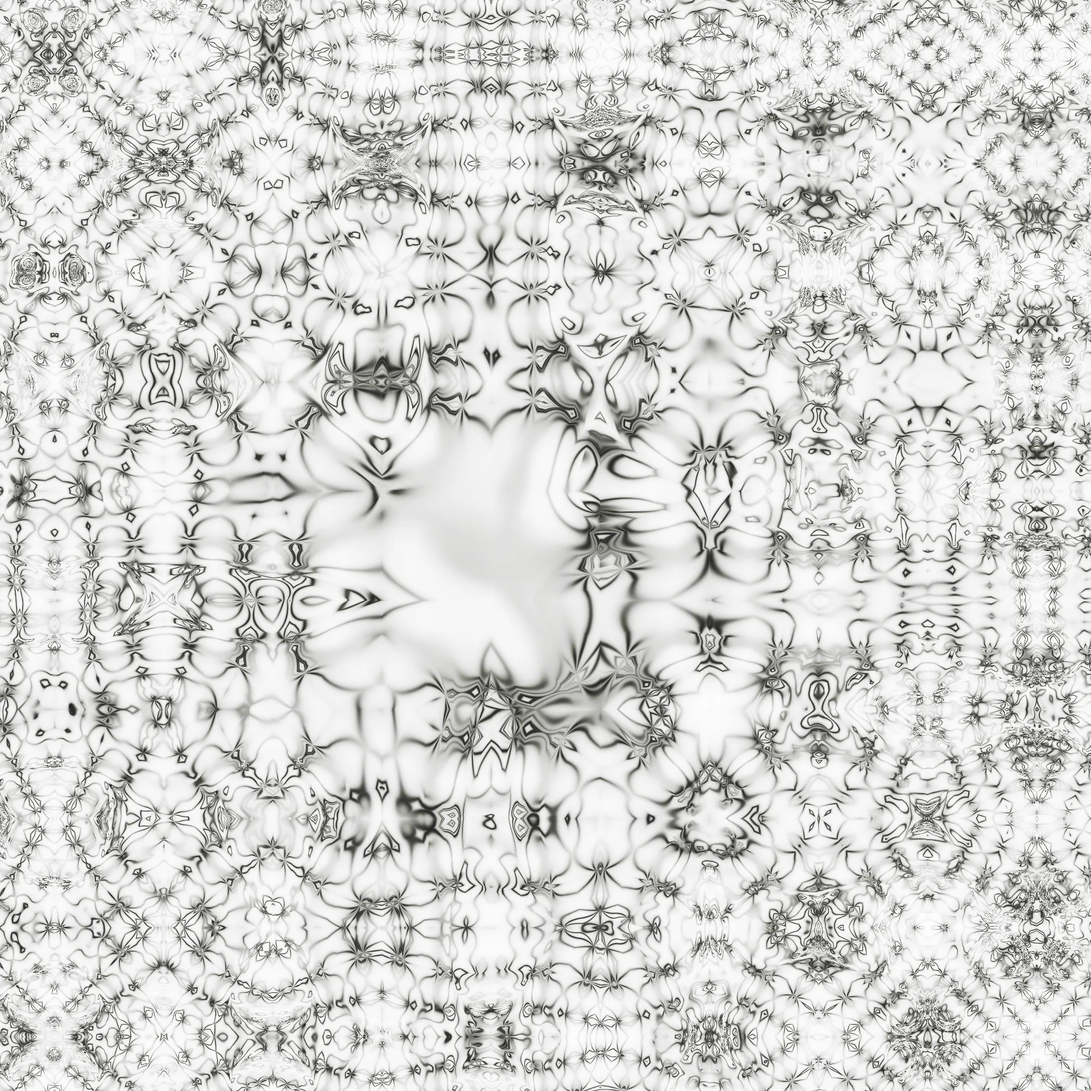
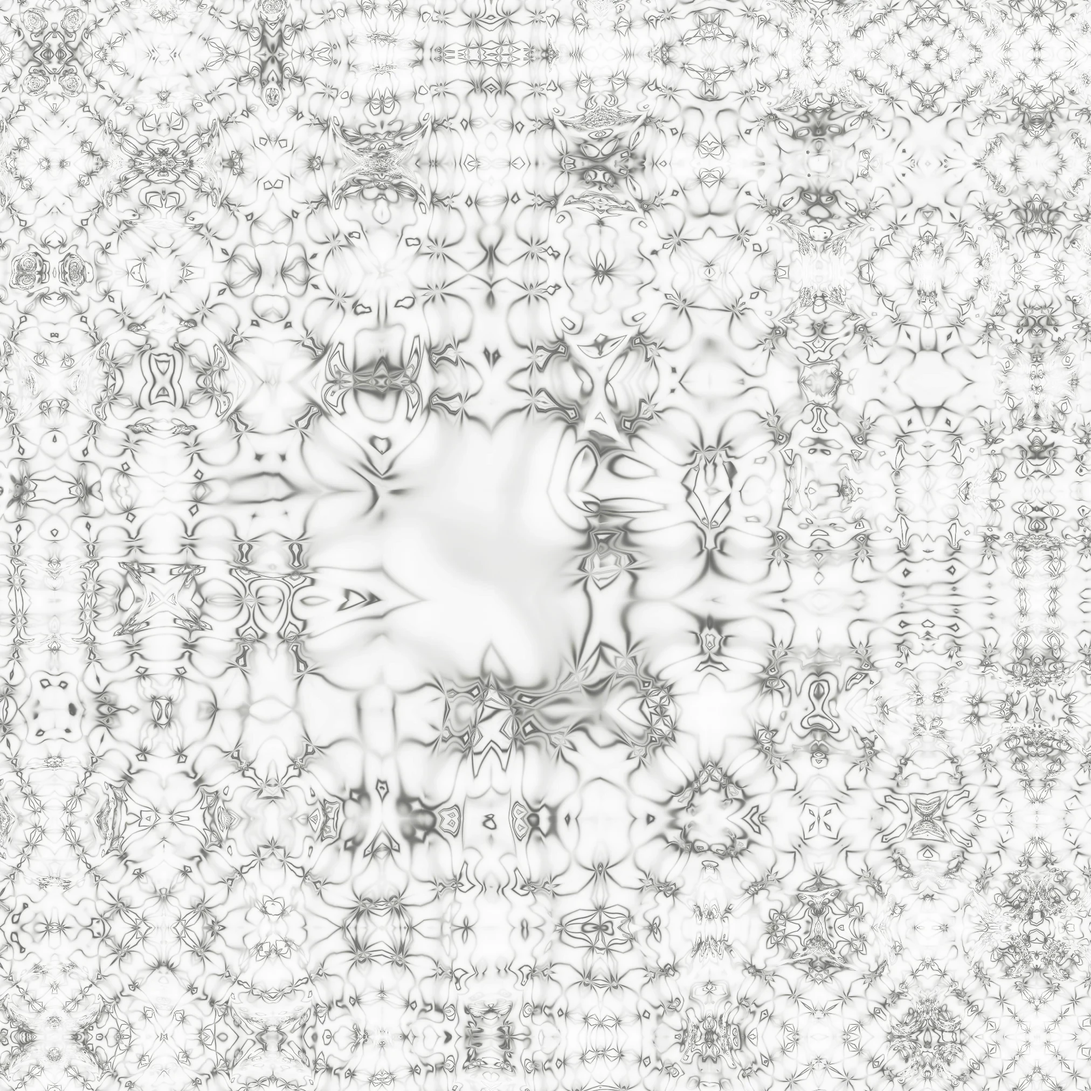
Reorganise navigation and categories.
- Nav: replaced Posts/About with About/Archive/All posts
- Archive page: compact inline layout (categories + years)
- Homepage: clean paginated post list, no browse strip
- Archive layouts: removed redundant browse-menu includes
- Categories: merged Gems and stones → Constructive math,
  Andromeda + RZ → Software, Every proof assistant → Formalized
  mathematics; renamed Formalization → Formalized mathematics;
  fixed typo Synthetic computatibility → Synthetic computability
- Header image: lifted black point to reduce darkness
- CSS: lighter multiply tint, title nowrap

diff --git a/asset/stylesheet.css b/asset/stylesheet.css
@@ -66,16 +66,14 @@ a.active {
 /*
    The random-art image is square (2024×2024).  background-size: cover
    combined with background-position: top center shows the dense
-   patterned top portion as a wide banner.  The golden tint is applied
-   via background-blend-mode: multiply so no separate tinted file is
-   needed — adjusting --image-tint changes the colour.
+   patterned top portion as a wide banner.
 */
 
 header {
   width: 100%;
   min-height: clamp(100px, 14vw, 180px);
   background-image: url('/asset/imast-mej.webp');
-  background-color: var(--image-tint);
+  background-color: #e8dfc4;
   background-blend-mode: multiply;
   background-size: cover;
   background-position: center 8%;
@@ -118,6 +116,7 @@ header h1 {
   letter-spacing: -0.01em;
   text-shadow: 0 1px 6px rgba(255, 248, 220, 0.8);
   line-height: 1.1;
+  white-space: nowrap;
 }
 
 header h2 {
@@ -361,6 +360,86 @@ div.excerpt-header {
 div.browse-posts {
   text-align: right;
   margin-top: 1.5rem;
+  font-size: 0.9rem;
+}
+
+/* ── Archive page ──────────────────────────────────────────── */
+
+h2.archive-heading {
+  font-size: 0.8rem;
+  text-transform: uppercase;
+  letter-spacing: 0.12em;
+  color: var(--muted);
+  font-family: system-ui, sans-serif;
+  font-weight: 600;
+  margin: 1.5rem 0 0.5rem;
+  border-bottom: 1px dashed var(--border);
+  padding-bottom: 0.4rem;
+}
+
+p.archive-inline {
+  margin: 0;
+  line-height: 2;
+}
+
+.archive-count {
+  color: var(--muted);
+  font-size: 0.85rem;
+}
+
+/* ── Topic grid (homepage) ─────────────────────────────────── */
+
+.topic-grid {
+  display: grid;
+  grid-template-columns: repeat(auto-fill, minmax(190px, 1fr));
+  gap: 0.6rem;
+  margin: 1.5rem 0 2.5rem;
+}
+
+.topic-card {
+  display: flex;
+  justify-content: space-between;
+  align-items: baseline;
+  padding: 0.55rem 0.85rem;
+  border: 1px solid var(--border);
+  background: #faf8f2;
+  text-decoration: none;
+  color: inherit;
+  transition: border-color 0.15s, background 0.15s;
+}
+
+.topic-card:hover {
+  border-color: var(--accent);
+  background: var(--nav-bg);
+  color: var(--accent);
+}
+
+.topic-name {
+  font-family: Georgia, "Times New Roman", serif;
+  font-size: 0.9rem;
+}
+
+.topic-count {
+  font-size: 0.78rem;
+  color: var(--muted);
+  margin-left: 0.75rem;
+  flex-shrink: 0;
+}
+
+h2.section-heading {
+  font-size: 0.8rem;
+  text-transform: uppercase;
+  letter-spacing: 0.12em;
+  color: var(--muted);
+  font-family: system-ui, sans-serif;
+  font-weight: 600;
+  margin: 0 0 1.5rem;
+  border-bottom: 1px dashed var(--border);
+  padding-bottom: 0.4rem;
+}
+
+p.pagination-nav {
+  margin: 1.5rem 0;
   font-size: 0.9rem;
 }
 

diff --git a/browse/index.html b/browse/index.html
@@ -1,34 +1,23 @@
 ---
-title: Browse posts
+title: Archive
 layout: page
-navigation: post
+navigation: archive
 ---
 
-<h2><a name="by-category">Posts by category</a></h2>
-
+<h2 class="archive-heading">By category</h2>
+<p class="archive-inline">
 {% assign categories = site.categories | sort %}
 {% for category in categories %}
 {% assign cat = category | first %}
-{% assign cat_size = site.categories[cat] | size %}
-  <a href="/category/{{cat | slugify}}/" class="meta">{{cat}}</a>&nbsp;({{ cat_size }})
-  {% if forloop.last == false %} &nbsp;|&nbsp; {% endif %}
+{% assign count = category | last | size %}
+<a href="/category/{{ cat | slugify }}/" class="meta">{{ cat }}</a> <span class="archive-count">({{ count }})</span>{% unless forloop.last %} &middot; {% endunless %}
 {% endfor %}
+</p>
 
-
-<h2><a name="by-year">Posts by year</a></h2>
-
-{% assign year_count = 1 %}
-{% assign prev_year = 999 %}
-{% for post in site.posts %}
-  {% assign year = post.date | date: "%Y" %}
-  {% if year != prev_year and forloop.first == false %}
-    <a href="/{{prev_year}}/" class="meta">{{prev_year}}</a>&nbsp;({{year_count}}) &nbsp;|&nbsp;
-    {% assign year_count = 1 %}
-  {% else %}
-    {% assign year_count = year_count | plus: 1 %}
-  {% endif %}
-  {% assign prev_year = year %}
+<h2 class="archive-heading">By year</h2>
+<p class="archive-inline">
+{% assign years = site.posts | group_by_exp: "post", "post.date | date: '%Y'" %}
+{% for year_group in years %}
+<a href="/{{ year_group.name }}/" class="meta">{{ year_group.name }}</a> <span class="archive-count">({{ year_group.items | size }})</span>{% unless forloop.last %} &middot; {% endunless %}
 {% endfor %}
-<a href="/{{year}}/" class="meta">{{year}}</a> ({{year_count}})
-
-<h2><a href="/all.html" class="meta">All posts</a> ({{site.posts | size}})</h2>
+</p>

diff --git a/index.html b/index.html
@@ -1,21 +1,16 @@
 ---
 title: Latest posts
 layout: page
-navigation: post
 ---
 
-{% include browse-menu.html %}
-
-{% if paginator.previous_page != nil %}
-← <a href="{{ paginator.previous_page_path }}" class="meta" class="earlier-posts">earlier posts</a>
+{% if paginator.previous_page %}
+← <a href="{{ paginator.previous_page_path }}" class="meta">newer posts</a>
 {% endif %}
 
 {% for post in paginator.posts %}
   {% include excerpt.html post=post %}
 {% endfor %}
 
-{% if paginator.next_page != nil %}
-→ <a href="{{ paginator.next_page_path }}" class="meta" class="later-posts">later posts</a>
+{% if paginator.next_page %}
+→ <a href="{{ paginator.next_page_path }}" class="meta">earlier posts</a>
 {% endif %}
-
-{% include browse-menu.html %}

diff --git a/_layouts/archive-category.html b/_layouts/archive-category.html
@@ -12,11 +12,9 @@
 
     <!-- MAIN CONTENT -->
     <!-- NAVIGATION -->
-    <nav>{% include navigation.html active=page.title %}</nav>
+    <nav>{% include navigation.html %}</nav>
 
     <section id="content">
-      {% include browse-menu.html %}
-
       <h1>Posts in the category {{ page.title }}</h1>
 
       {% if page.title == "Publications" %}
@@ -31,8 +29,6 @@
       {% for post in page.posts %}
       {% include excerpt.html post=post %}
       {% endfor %}
-
-      {% include browse-menu.html %}
     </section>
 
     {% include footer.html %}

diff --git a/_includes/navigation.html b/_includes/navigation.html
@@ -1,4 +1,5 @@
 <ul>
-<li><a {% if include.active == "post" %}class="active"{% endif %} href="/">Posts</a></li>
 <li><a {% if include.active == "about" %}class="active"{% endif %} href="/about/">About</a></li>
+<li><a {% if include.active == "archive" %}class="active"{% endif %} href="/browse/">Archive</a></li>
+<li><a {% if include.active == "all" %}class="active"{% endif %} href="/all/">All posts</a></li>
 </ul>

diff --git a/_layouts/archive-year.html b/_layouts/archive-year.html
@@ -16,15 +16,11 @@
     <nav>{% include navigation.html %}</nav>
 
     <section id="content">
-      {% include browse-menu.html %}
-
       <h1>Posts in the year {{ year }}</h1>
 
       {% for post in page.posts %}
       {% include excerpt.html post=post %}
       {% endfor %}
-
-      {% include browse-menu.html %}
     </section>
 
     {% include footer.html %}

diff --git a/_layouts/draft.html b/_layouts/draft.html
@@ -11,7 +11,7 @@
     <!-- HEADER -->
     {% include header.html %}
     <!-- NAVIGATION -->
-    <nav>{% include navigation.html active="post" %}</nav>
+    <nav>{% include navigation.html %}</nav>
 
     <!-- MAIN CONTENT -->
     <section id="content">

diff --git a/_layouts/post.html b/_layouts/post.html
@@ -11,7 +11,7 @@
     <!-- HEADER -->
     {% include header.html %}
     <!-- NAVIGATION -->
-    <nav>{% include navigation.html active="post" %}</nav>
+    <nav>{% include navigation.html %}</nav>
 
     <!-- MAIN CONTENT -->
     <section id="content">

diff --git a/all.html b/all.html
@@ -1,7 +1,7 @@
 ---
 title: All posts
 layout: page
-navigation: post
+navigation: all
 ---
 
 <h2>All posts</h2>

diff --git a/_posts/2023-07-19-continuity-principles-and-the-klst-theorem.md b/_posts/2023-07-19-continuity-principles-and-the-klst-theorem.md
@@ -4,7 +4,7 @@ author: Andrej Bauer
 layout: post
 categories:
   - Constructive math
-  - Synthetic computatibility
+  - Synthetic computability
 ---
 
 On the occasion of Dieter Spreen's 75th birthday there will be a Festschrift in the [Journal of Logic and Analysis](http://logicandanalysis.org/index.php/jla). I have submitted a paper *“Spreen spaces and the synthetic Kreisel-Lacombe-Shoenfield-Tseitin theorem”*, available as a preprint [arXiv:2307.07830](https://arxiv.org/abs/2307.07830),  that develops a constructive account of Dieter's generalization of a famous theorem about continuity of computable functions. In this post I explain how the paper fits into the more general topic of continuity principles.

diff --git a/_posts/2016-08-09-what-is-a-formal-proof.md b/_posts/2016-08-09-what-is-a-formal-proof.md
@@ -7,7 +7,7 @@ layout: post
 guid: http://math.andrej.com/?p=1920
 permalink: /2016/08/09/what-is-a-formal-proof/
 categories:
-  - Andromeda
+  - Software
   - Logic
 ---
 Mike Shulman just wrote a very nice [blog post on what is a formal proof](https://golem.ph.utexas.edu/category/2016/08/what_is_a_formal_proof.html). I much agree with what he says, but I would like to offer my own perspective. I started writing it as a comment to Mike's post and then realized that it is too long, and that I would like to have it recorded independently as well. Please read Mike's blog post first.

diff --git a/_posts/2016-07-28-the-andromeda-proof-assistant-leeds-workshop-slides.md b/_posts/2016-07-28-the-andromeda-proof-assistant-leeds-workshop-slides.md
@@ -7,7 +7,7 @@ layout: post
 guid: http://math.andrej.com/?p=1903
 permalink: /2016/07/28/the-andromeda-proof-assistant-leeds-workshop-slides/
 categories:
-  - Andromeda
+  - Software
   - Talks
 ---
 I am about to give an invited talk at the  [Workshop on Categorical Logic and Univalent Foundations 2016](http://www.hott16.leeds.ac.uk) in Leeds, UK. It's a charming workshop that I am enjoing a great deal. Here are the slides of my talk, with speaker notes, as well as the Andromeda examples that I am planning to cover.
